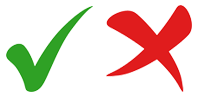
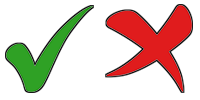
commit

diff --git a/letsgotojapan.js b/letsgotojapan.js
@@ -1599,6 +1599,8 @@ function (dojo, declare) {
                 
                 dojo.place( this.format_block( 'jstpl_check', {
                     type: check,
+                    ville: ville,
+                    id: id,
                                                             
                 } ) , 'card_'+ville+'_'+id);
                 
@@ -2908,6 +2910,9 @@ function (dojo, declare) {
             {
                 
                 this.addCheck(notif.args.id, notif.args.ville, notif.args.check);
+                const check = document.getElementById('check_'+notif.args.ville+'_'+notif.args.id);
+                check.classList.add("animate");
+                
 
             },
 

diff --git a/letsgotojapan.css b/letsgotojapan.css
@@ -1160,6 +1160,7 @@ display: none;
   left: 50%;
   transform: translateX(-50%);
   z-index: 20;
+ 
 
 
 }
@@ -1178,4 +1179,26 @@ display: none;
   z-index: 20;
 
 
+}
+
+.animate{
+  
+  animation: animescale 0.2s linear forwards;
+    
+    
+}
+
+@keyframes animescale {
+  0% {
+    transform: scale(3) rotate(-45deg);
+    
+
+  }
+ 
+  100% {
+    transform: scale(1) rotate(0);
+    left: 50%;
+  transform: translateX(-50%);
+    
+  }
 }

diff --git a/letsgotojapan.game.php b/letsgotojapan.game.php
@@ -1756,6 +1756,18 @@ function actValidate3Discard( $arg1, $arg2, $arg3)
     
 }
 
+function Test($ville, $id, $check)
+{
+    letsgotojapan::$instance->notifyAllPlayers('check','', array(
+            
+        'id' => $id,
+        'ville' => $ville,
+        'check' => $check,
+        
+        )
+        ); 
+}
+
 
 
     
